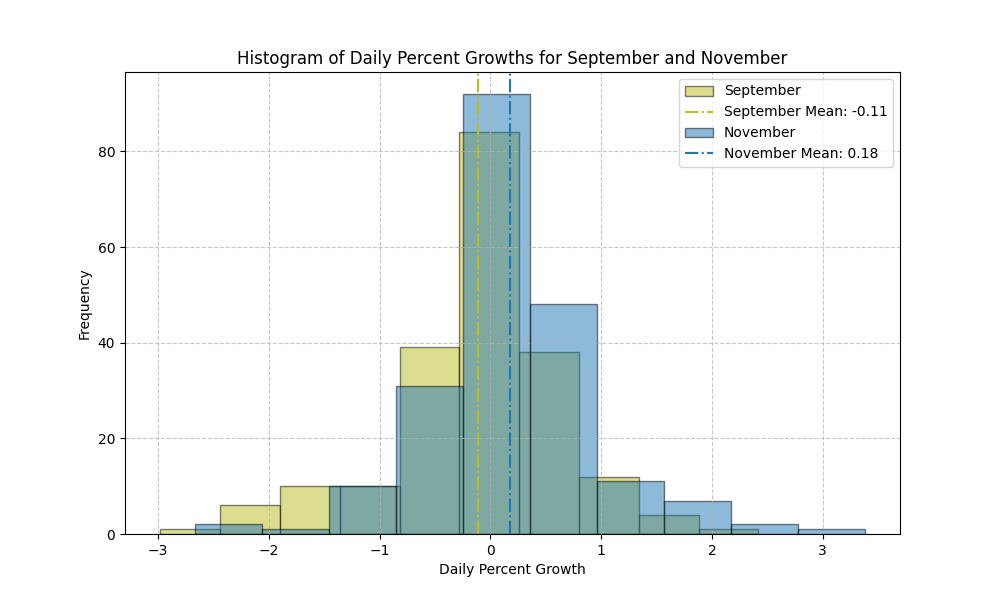
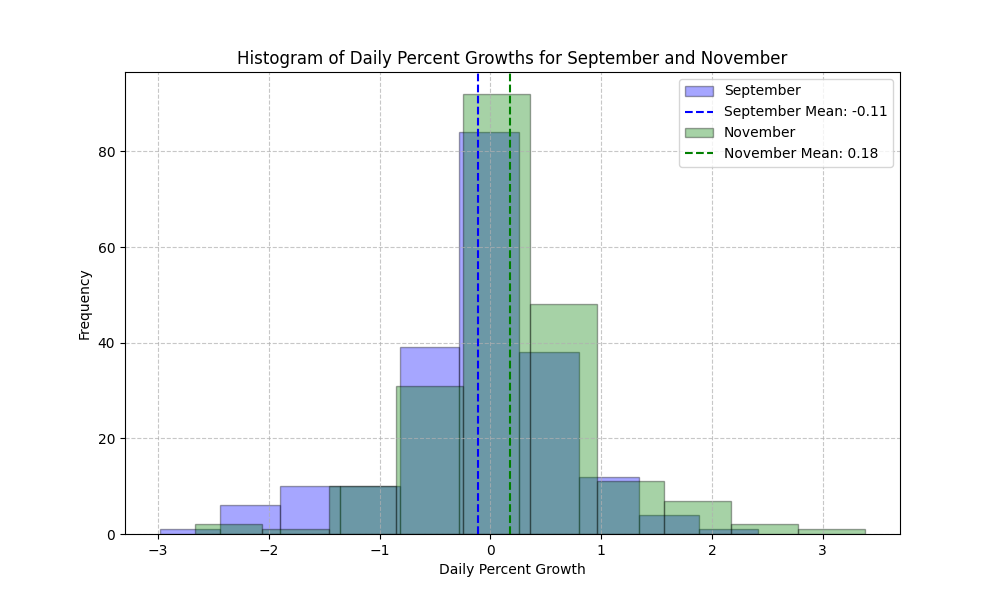
change plot color

diff --git a/months-of-the-year/sept-nov-graph.py b/months-of-the-year/sept-nov-graph.py
@@ -13,23 +13,19 @@ filtered_months = months[(months['Month'] == 'September') | (months['Month'] == 
 # Plot histograms for September and November
 plt.figure(figsize=(10, 6))
 
-# Get default color cycle
-colors1 = plt.cm.tab10.colors
-colors2 = plt.cm.tab20.colors
 # Dictionary to store the color corresponding to each month
-month_colors = {'September': colors1[8], 'November': colors2[0]}
+month_colors = {'September': 'blue', 'November': 'green'}
 
-plt.clf
 for month_name in ['September', 'November']:  # Only September and November
     month_data = filtered_months[filtered_months['Month'] == month_name]['Percent change']
     color = month_colors[month_name]
     
     # Plot histogram
-    plt.hist(month_data, bins=10, alpha=0.5, edgecolor='black', label=month_name, color=color)
+    plt.hist(month_data, bins=10, alpha=0.35, edgecolor='black', label=month_name, color=color)
     
     # Calculate and plot mean line for each month
     month_mean = month_data.mean()
-    plt.axvline(x=month_mean, color=color, linestyle='-.', label=f'{month_name} Mean: {month_mean:.2f}')
+    plt.axvline(x=month_mean, color=color, linestyle='--', label=f'{month_name} Mean: {month_mean:.2f}')
 
 plt.legend()
 plt.title('Histogram of Daily Percent Growths for September and November')
